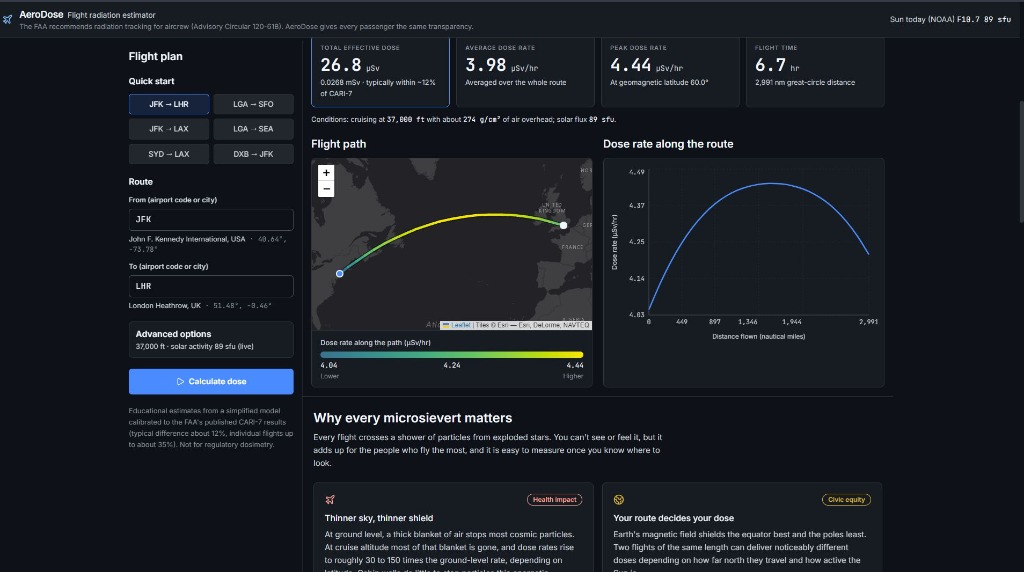
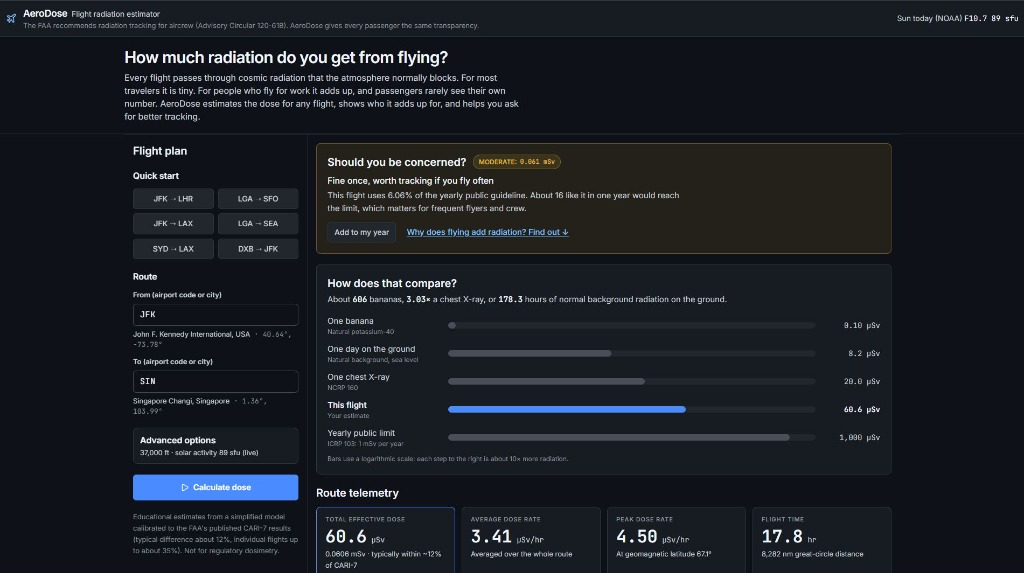
update README.md - screenshot
update README.md - screenshot of concerning flight route.

diff --git a/README.md b/README.md
@@ -18,7 +18,7 @@
 ---
 
 ![AeroDose Application Interface](docs/screenshot.jpg)
-*AeroDose calculating real-time effective dose (26.8 µSv), flight path with Viridis dose-rate heatmap, elevation profile, and NOAA live space weather telemetry for a JFK → LHR transatlantic flight.*
+*AeroDose calculating real-time effective dose (60.6 µSv), plain-language risk verdict, multi-scale comparison meter (bananas, chest X-rays, and the 1 mSv public limit), and NOAA live space weather telemetry for a long-haul JFK → SIN route.*
 
 ---
 
